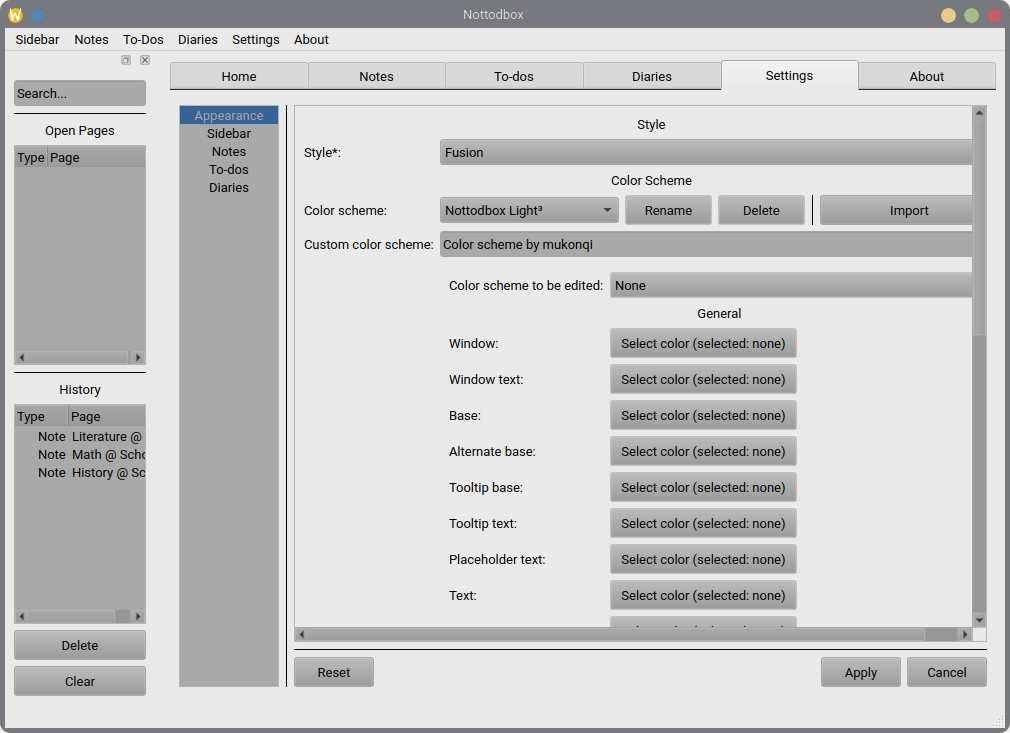
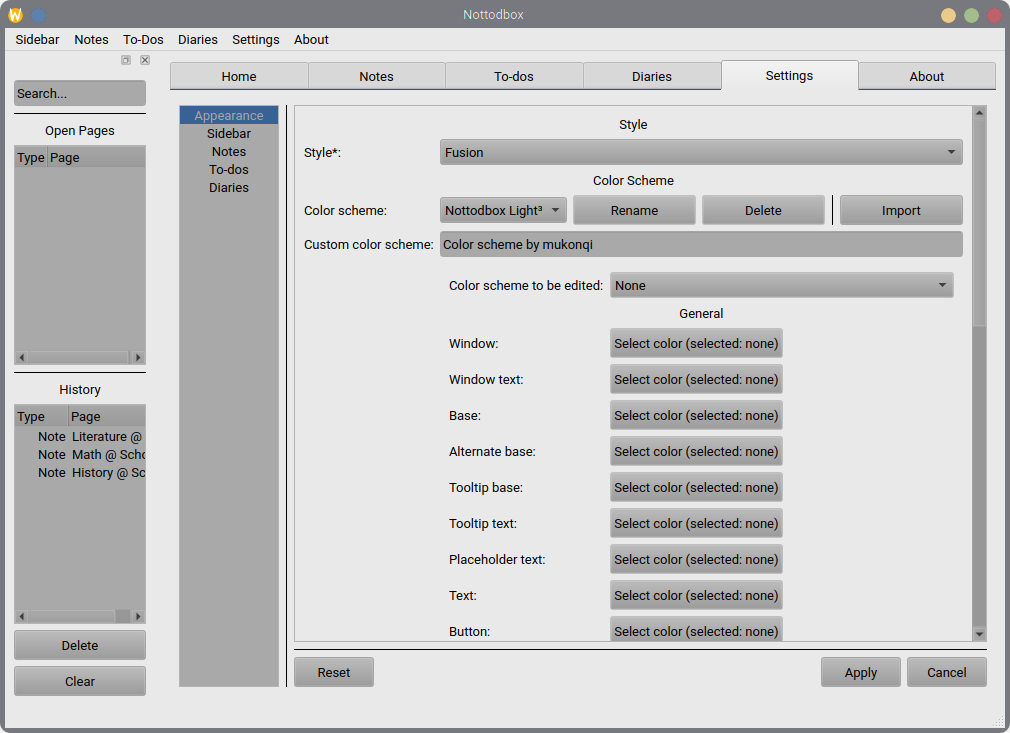
Some improvements in settings page

diff --git a/nottodbox/settings.py b/nottodbox/settings.py
@@ -33,7 +33,6 @@ USER_NAME = getpass.getuser()
 
 COLOR_SCHEMES_DIRS = []
 
-
 KDE_COLOR_SCHEMES_DIRS = QStandardPaths.locateAll(
     QStandardPaths.StandardLocation.GenericDataLocation, 
     "color-schemes", 
@@ -54,12 +53,9 @@ elif len(KDE_COLOR_SCHEMES_DIRS) == 1:
     elif KDE_COLOR_SCHEMES_DIRS[0] == f"/home/{USER_NAME}/.local/share/color-schemes":
         KDE_SYSTEM_COLOR_SCHEMES_FOUND = False
 
-
-
 NOTTODBOX_COLOR_SCHEMES_DIRS = ["@COLOR-SCHEMES_DIR@" if os.path.isdir("@COLOR-SCHEMES_DIR@") else f"{os.path.dirname(__file__)}/color-schemes", 
                                 f"/home/{USER_NAME}/.local/share/nottodbox/color-schemes"]
 os.makedirs(NOTTODBOX_COLOR_SCHEMES_DIRS[1], exist_ok=True)
-
 
 COLOR_SCHEMES_DIRS.extend(KDE_COLOR_SCHEMES_DIRS)
 COLOR_SCHEMES_DIRS.extend(NOTTODBOX_COLOR_SCHEMES_DIRS)
@@ -171,21 +167,14 @@ class SettingsWidget(QWidget):
         self.list_diaries = QListWidgetItem(_("Diaries"), self.list)
         self.list_diaries.setTextAlignment(Qt.AlignmentFlag.AlignCenter)
         
-        appearance_scroll_area = QScrollArea(self)
-        appearance_scroll_area.setWidgetResizable(True)
-        appearance_scroll_area.setWidget(AppearanceSettings(self, 0))
-        appearance_scroll_area.apply = appearance_scroll_area.widget().apply
-        appearance_scroll_area.load = appearance_scroll_area.widget().load
-        appearance_scroll_area.reset = appearance_scroll_area.widget().reset
-        
         self.container = QStackedWidget(self)
         
         self.pages = [
-            appearance_scroll_area,
-            ModuleSettings(self, 1, "sidebar", sidebar),
-            ModuleSettings(self, 2, "notes", notes),
-            ModuleSettings(self, 3, "todos",  todos),
-            ModuleSettings(self, 4, "diaries", diaries)
+            self.makeScrollable(AppearanceSettings(self, 0)),
+            self.makeScrollable(ModuleSettings(self, 1, "sidebar", sidebar)),
+            self.makeScrollable(ModuleSettings(self, 2, "notes", notes)),
+            self.makeScrollable(ModuleSettings(self, 3, "todos",  todos)),
+            self.makeScrollable(ModuleSettings(self, 4, "diaries", diaries))
         ]
         
         for page in self.pages:
@@ -242,6 +231,16 @@ class SettingsWidget(QWidget):
     def cancel(self) -> None:
         for page in self.pages:
             page.load()
+            
+    def makeScrollable(self, page: QWidget) -> QScrollArea:
+        appearance_scroll_area = QScrollArea(self)
+        appearance_scroll_area.setWidgetResizable(True)
+        appearance_scroll_area.setWidget(page)
+        appearance_scroll_area.apply = appearance_scroll_area.widget().apply
+        appearance_scroll_area.load = appearance_scroll_area.widget().load
+        appearance_scroll_area.reset = appearance_scroll_area.widget().reset
+        
+        return appearance_scroll_area
     
     @Slot()
     def reset(self) -> None:
@@ -291,16 +290,14 @@ class AppearanceSettings(BaseSettings):
         self.color_schemes_widget_layout.setContentsMargins(0, 0, 0, 0)
         
         self.color_schemes_buttons = QWidget(self.color_schemes_widget)
-        self.color_schemes_buttons_layout = QHBoxLayout(self.color_schemes_buttons)
-        self.color_schemes_buttons_layout.setContentsMargins(0, 0, 0, 0)
         
         self.color_schemes_combobox = Combobox(self.color_schemes_widget)
         self.color_schemes_combobox.setEditable(False)
         
-        self.color_schemes_rename = PushButton(self.color_schemes_buttons, _("Rename"))
+        self.color_schemes_rename = PushButton(self.color_schemes_widget, _("Rename"))
         self.color_schemes_rename.clicked.connect(self.renameColorScheme)
 
-        self.color_schemes_delete = PushButton(self.color_schemes_buttons, _("Delete"))
+        self.color_schemes_delete = PushButton(self.color_schemes_widget, _("Delete"))
         self.color_schemes_delete.clicked.connect(self.deleteColorScheme)
         
         self.color_schemes_import = PushButton(self.color_schemes_widget, _("Import"))
@@ -310,13 +307,10 @@ class AppearanceSettings(BaseSettings):
         
         self.custom_color_schemes = CustomColorSchemes(self)
         
-        self.color_schemes_buttons.setLayout(self.color_schemes_buttons_layout)
-        self.color_schemes_buttons_layout.addWidget(self.color_schemes_rename)
-        self.color_schemes_buttons_layout.addWidget(self.color_schemes_delete)
-        
         self.color_schemes_widget.setLayout(self.color_schemes_widget_layout)
         self.color_schemes_widget_layout.addWidget(self.color_schemes_combobox)
-        self.color_schemes_widget_layout.addWidget(self.color_schemes_buttons)
+        self.color_schemes_widget_layout.addWidget(self.color_schemes_rename)
+        self.color_schemes_widget_layout.addWidget(self.color_schemes_delete)
         self.color_schemes_widget_layout.addWidget(VSeperator(self.color_schemes_widget))
         self.color_schemes_widget_layout.addWidget(self.color_schemes_import)
         
@@ -328,16 +322,17 @@ class AppearanceSettings(BaseSettings):
         self.form.addRow("{} {}:".format(_("Custom"), _("Color scheme").lower()), self.custom_color_schemes.name)
         self.form.addWidget(self.custom_color_schemes)
         self.form.addRow(HSeperator(self))
+        self.form.addRow(Label(self, "*{}<ul>- {}<br>- {}</ul>".format(_("Some styles may not be detected in two cases:"),
+                                                                 _("If PySide6 is installed with Pip"), 
+                                                                 _("If you are using the AppImage version of Nottodbox")), 0x0001))
         self.form.addRow(Label(self, 
-                               _("*If PySide6 is installed with Pip or you are using Nottodbox's AppImage package some system themes may not detected."), 0x0001))
+                               "<br>{}{}".format(self.superscriptDirNumber(1), _('From the system directory for KDE-format color schemes')), 0x0001))
         self.form.addRow(Label(self, 
-                               "{}{}".format(self.superscriptDirNumber(1), _('From the system directory for KDE-format color schemes')), 0x0001))
+                               "<br>{}{}".format(self.superscriptDirNumber(2), _('From the user directory for KDE-format color schemes')), 0x0001))
         self.form.addRow(Label(self, 
-                               "{}{}".format(self.superscriptDirNumber(2), _('From the user directory for KDE-format color schemes')), 0x0001))
+                               "<br>{}{}".format(self.superscriptDirNumber(3), _('From the system directory for Nottodbox-format color schemes')), 0x0001))
         self.form.addRow(Label(self, 
-                               "{}{}".format(self.superscriptDirNumber(3), _('From the system directory for Nottodbox-format color schemes')), 0x0001))
-        self.form.addRow(Label(self, 
-                               "{}{}".format(self.superscriptDirNumber(4), _('From the user directory for Nottodbox-format color schemes')), 0x0001))
+                               "<br>{}{}".format(self.superscriptDirNumber(4), _('From the user directory for Nottodbox-format color schemes')), 0x0001))
         
         self.styles_combobox.currentTextChanged.connect(self.styleChanged)
         self.color_schemes_combobox.currentTextChanged.connect(self.colorSchemeChanged)
@@ -653,10 +648,12 @@ class AppearanceSettings(BaseSettings):
         
     def setColorSchemeButtons(self, value: str) -> None:
         if self.current_color_scheme != "" and os.path.dirname(self.color_schemes[value]) == NOTTODBOX_COLOR_SCHEMES_DIRS[1]:
-            self.color_schemes_buttons.setEnabled(True)
+            self.color_schemes_rename.setEnabled(True)
+            self.color_schemes_delete.setEnabled(True)
             
         else:
-            self.color_schemes_buttons.setEnabled(False)
+            self.color_schemes_rename.setEnabled(False)
+            self.color_schemes_delete.setEnabled(False)
         
     @Slot(str)
     def styleChanged(self, value: str) -> None:

diff --git a/nottodbox/__init__.py b/nottodbox/__init__.py
@@ -52,7 +52,7 @@ parser._optionals.title = _("optional arguments")
 group = parser.add_mutually_exclusive_group()
 
 parser.add_argument("-h", "--help", help=_("show this help message"), action="help", default=argparse.SUPPRESS)
-parser.add_argument("-v", "--version", help=_("show the version"), action="version", version="v0.0.8-3")
+parser.add_argument("-v", "--version", help=_("show the version"), action="version", version="v0.0.8-4")
 group.add_argument("-i", "--index", help=_("set the page to be opened via number"), default=1,
                    choices=[1, 2, 3, 4, 5, 6], type=int)
 group.add_argument("-p", "--page", help=_("set the page to be opened via name"), default=_("home"), 
@@ -76,7 +76,7 @@ class Application(QApplication):
     def __init__(self, argv: list) -> None:
         super().__init__(argv)
 
-        self.setApplicationVersion("v0.0.8-3")
+        self.setApplicationVersion("v0.0.8-4")
         self.setApplicationName("nottodbox")
         self.setApplicationDisplayName("Nottodbox")
         self.setDesktopFileName(os.path.join(self.getBaseDir(), "applications", f"{APP_ID}.desktop"))

diff --git a/nottodbox/about.py b/nottodbox/about.py
@@ -44,7 +44,7 @@ class AboutWidget(QWidget):
         font.setPointSize(32)
         self.nottodbox.setFont(font)
         
-        self.version_label = Label(self, _("Version") + ': <a href="https://github.com/mukonqi/nottodbox/releases/tag/v0.0.8-3">v0.0.8-3</a>')
+        self.version_label = Label(self, _("Version") + ': <a href="https://github.com/mukonqi/nottodbox/releases/tag/v0.0.8-4">v0.0.8-4</a>')
         self.version_label.setOpenExternalLinks(True)
         
         self.source_label = Label(self, _("Source codes") + ': <a href="https://github.com/mukonqi/nottodbox">GitHub</a>')
